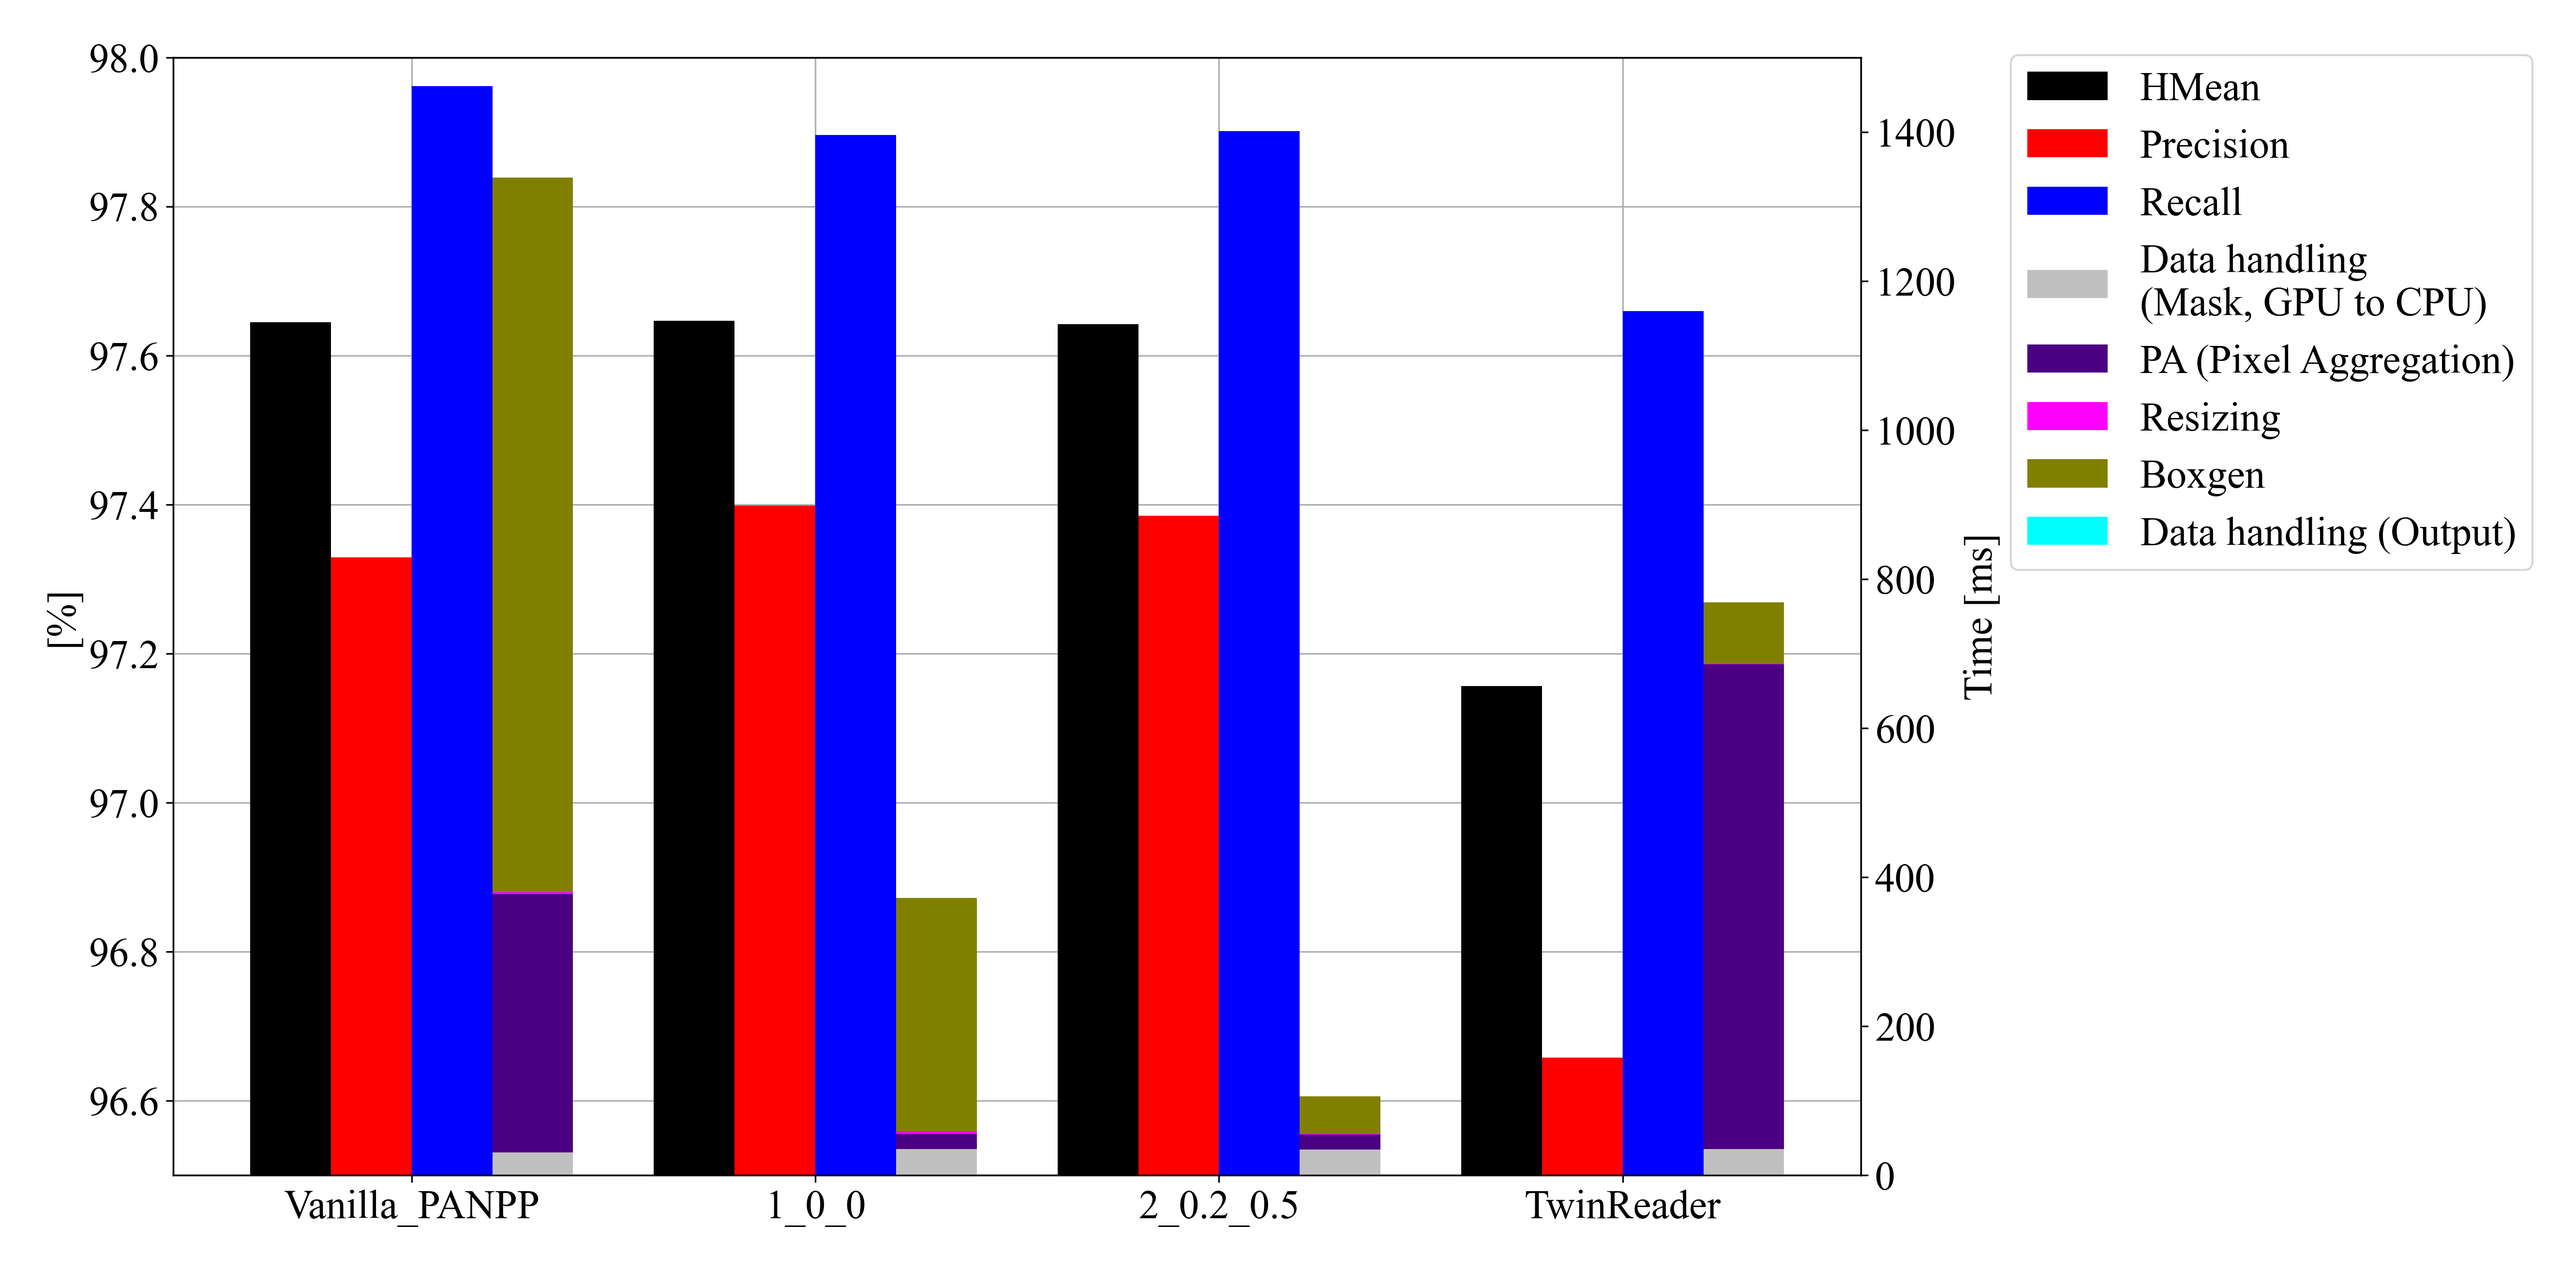
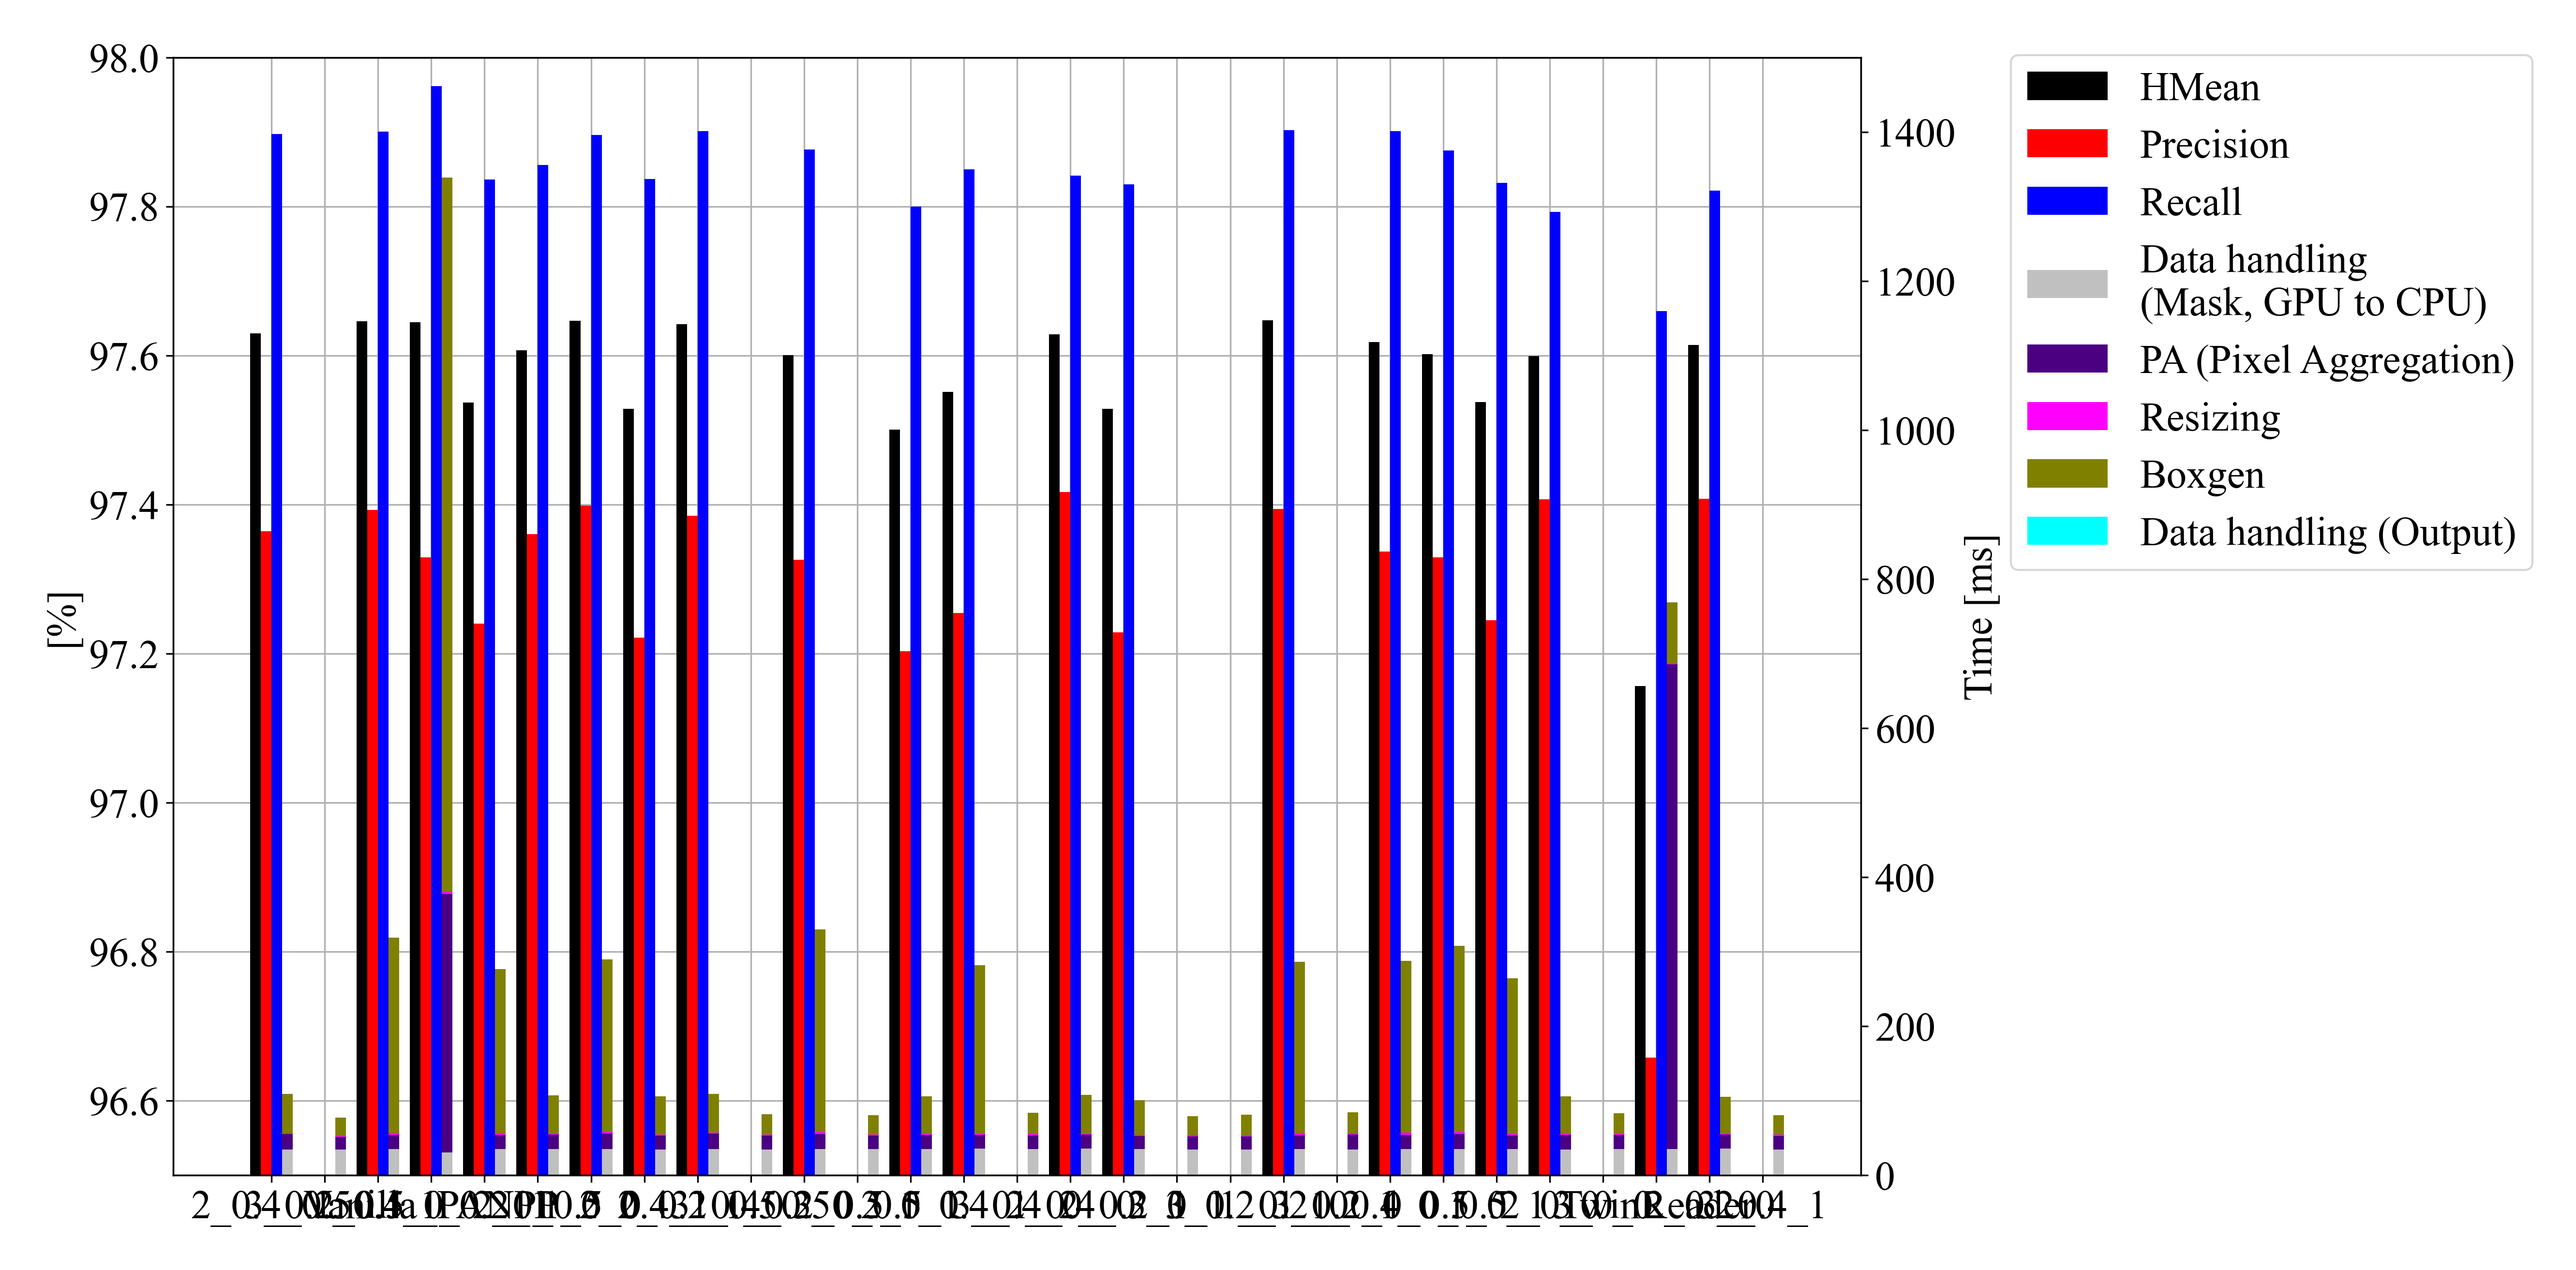
:bento: Update: Results

diff --git a/results/Results/makeReults.py b/results/Results/makeReults.py
@@ -62,6 +62,7 @@ if __name__ == '__main__':
     parser = argparse.ArgumentParser(description='Set Mode')
     parser.add_argument('--mode')
     parser.add_argument('--compare')
+    parser.add_argument('--name')
     args = parser.parse_args()
     print(args)
     if args.mode == '0':
@@ -72,12 +73,10 @@ if __name__ == '__main__':
         Time = [[0 for _ in range(N)] for _ in range(5)]
         met = {}
         Met = [[0 for _ in range(N)] for _ in range(3)]
-
         for i in range(N):
             Ver[i] = K[i]
             for j in range(5):
                 Time[j][i] = data[j+1][i]
-
         for i in range(N):
             data = pd.read_csv('../evaluation/' + Ver[i] + '.csv', header=None)        
             for j in range(3):
@@ -85,10 +84,13 @@ if __name__ == '__main__':
         if args.compare == None:
             plot_result(Ver, Met, Time, list(range(N)), 'Result')
         else:
-            plot_result(Ver, Met, Time, list(map(int, args.compare.split(','))), 'Result')
+            tmp = []
+            for i in map(str, args.compare[:-1].split(',')):
+                tmp.append(Ver.index(i))
+            plot_result(Ver, Met, Time, tmp, args.name)
     elif args.mode == '1':
         a = '1_0_0'
         b = '2_0.2_0.5'
         c = '4_0_0'
         d = '4_0.2_0.5'
-        compareIMG('만기증권투자신탁1호_png-001', [1000,100,300,300], 'Compare', a, b, c, d)
+        compareIMG('DataName', [1000,100,300,300], args.name, a, b, c, d)
